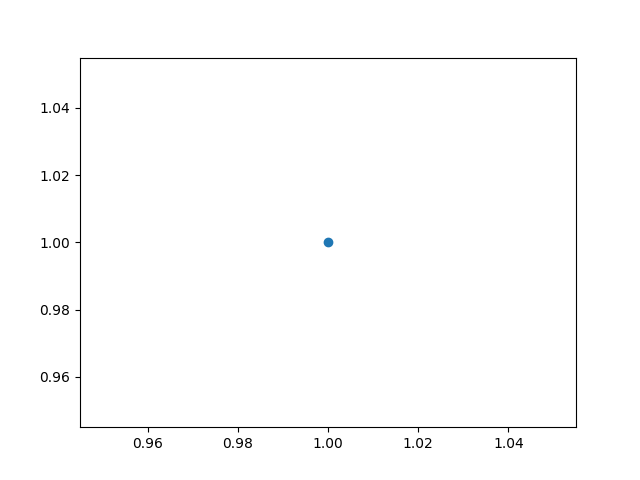
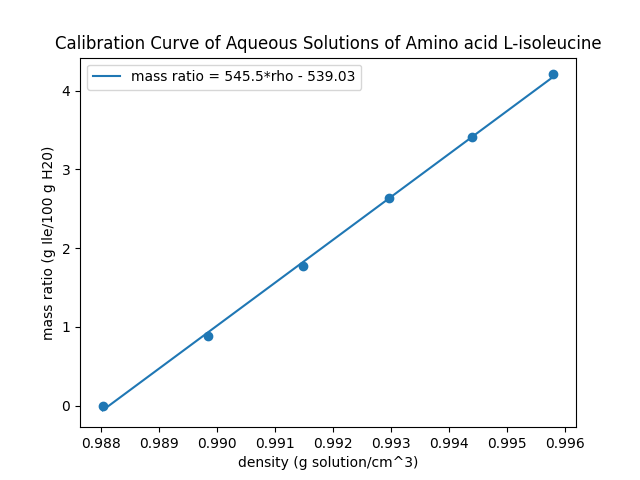
completed

diff --git a/CBE100_HW1.py b/CBE100_HW1.py
@@ -1,13 +1,55 @@
 
 import matplotlib
+import numpy as np
 from matplotlib import pyplot as plt
 
+
 def problem3():
-    plt.scatter(1, 1)
+    temperature = 50.0
+    temperatureUncertainty = 0.05
+
+    rho = np.array([0.98803, 0.98984, 0.99148, 0.99297, 0.99439, 0.99580])
+    massRatio = np.array([0.0000, 0.8821, 1.7683, 2.6412, 3.4093, 4.2064])
+
+    m, b = np.polyfit(rho, massRatio, 1)
+    plt.figure(1)
+    plt.scatter(rho, massRatio)
+    plt.plot(rho, m*rho+b)
+    plt.xlabel("density (g solution/cm^3)")
+    plt.ylabel("mass ratio (g Ile/100 g H20)")
+    plt.title("Calibration Curve of Aqueous Solutions of Amino acid L-isoleucine")
+    plt.legend(["mass ratio = {:.5g}*rho - {:.5g}".format(m, np.abs(b))])
+    print(0.9940*m+b)
     plt.savefig("CBE100_HW1_Outputs/Problem 3")
 
+
 def problem4():
-    pass
+    time = np.array([1, 2, 3, 4, 5, 6, 7, 8])
+    biomass = np.array([0.01, 0.013, 0.04, 0.05, 0.38, 0.7, 0.85, 1.6])
+    biomassLn = np.log(biomass)
+
+    m, b = np.polyfit(time, biomassLn, 1)
+    plt.figure(2)
+    plt.scatter(time, biomassLn)
+    plt.plot(time, m * time + b)
+    plt.legend(["log(biomass) = {:.5}*time - {:.5g}".format(m, np.abs(b))])
+    plt.title("Semi-log Biomass (g/L) vs Time (hrs)")
+    plt.ylabel("Biomass (g/L)")
+    plt.xlabel("Time (hrs)")
+    plt.savefig("CBE100_HW1_Outputs/Problem 4")
+
 
 def problem5():
-    pass
+    week = np.array([1, 2, 3, 4, 5, 6])
+    demand = np.array([2385, 1890, 1506, 1196, 950, 755])
+    demandLn = np.log(demand)
+
+    m, b = np.polyfit(week, demandLn, 1)
+    plt.figure(3)
+    plt.scatter(week, demandLn)
+    plt.plot(week, m * week + b)
+    plt.legend(["log(demand rate) = {:.5g}*week + {:.5g}".format(m, np.abs(b))])
+    plt.title("Semi-log Projected Demand Figures over Time")
+    plt.ylabel("Demand Rate (kg/wk)")
+    plt.xlabel("Time (weeks)")
+    plt.savefig("CBE100_HW1_Outputs/Problem 5")

diff --git a/main.py b/main.py
@@ -2,6 +2,7 @@
 import CBE100_HW1
 
 if __name__ == '__main__':
-    CBE100_HW1.Prob3()
-
+    CBE100_HW1.problem3()
+    CBE100_HW1.problem4()
+    CBE100_HW1.problem5()
 
